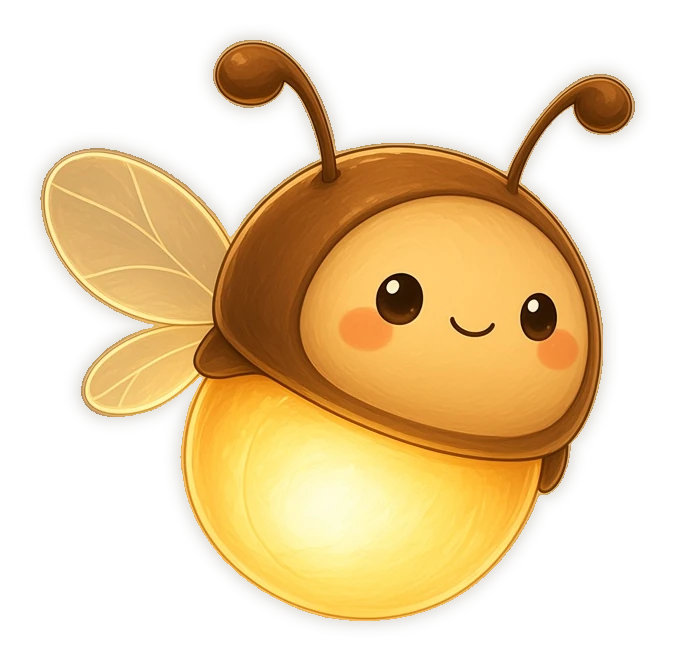
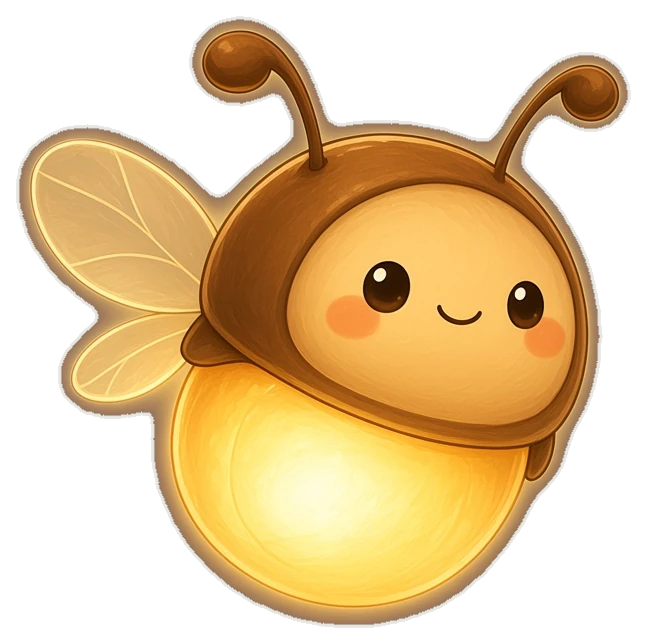
Recut Phase 1 art to remove white backgrounds
Redo every Phase 1 cutout from the raw generations with a border
flood-fill, an eroded alpha matte, and edge decontamination so
sprites and chase mid/ground/far layers no longer keep a white or
mauve studio backdrop.

diff --git a/public/assets/art/phase1/README.md b/public/assets/art/phase1/README.md
@@ -2,11 +2,11 @@
 
 Chase scene (Ruée des Citrouilles) and new gameplay sprites: baby capys, Lumi, bounce mushrooms, lantern checkpoints, a pumpkin herd, a temporary glide feather and pose, a pantry shelf and a floor hatch.
 
-Files are lossy WebP at quality 90, with alpha preserved on every transparent layer. The chase sky is opaque RGB; far, mid and ground are RGBA. Creatures face right where a side view applies.
+Cutouts were redone from the raw generations (border flood-fill, eroded alpha matte, defringe and edge decontamination) so sprites no longer keep a white or mauve studio backdrop. Files are lossy WebP at quality 90, with alpha preserved on every transparent layer. The chase sky is opaque RGB; far, mid and ground are RGBA. Creatures face right where a side view applies.
 
 Suggested heights are in world units (Capy's idle sprite is 1.68 tall; the gameplay hitbox is 1.0). "vs Capy" is suggested world height ÷ 1.68.
 
-These assets are not wired into the game yet.
+These assets are wired on the `cursor/phase1-levels` branch (draft PR #4). They are not merged or deployed.
 
 ## Chase scene (`scenes/chase/`)
 
@@ -15,9 +15,9 @@ Composite order: `sky`, then `far`, then `ground`, then `mid` shifted by `dy` (p
 | File | Size | Dimensions | Notes |
 | --- | ---: | --- | --- |
 | `sky.webp` | 122 KB | 1280×720 RGB | Warm sunset sky with planets. Graded slightly cooler than the raw paint; still a cozy peach sky, not a dark storm. |
-| `far.webp` | 77 KB | 1280×720 RGBA | Distant floating isles, waterfalls and clouds. |
-| `ground.webp` | 98 KB | 1280×720 RGBA | Three linked sloped grass islands, left high / right low. |
-| `mid.webp` | 175 KB | 1280×720 RGBA | Wind-blown trees and shrubs on the slope. Suggested mid dy: **-40**. |
+| `far.webp` | 46 KB | 1280×720 RGBA | Distant floating isles and waterfalls. Hard-edged studio clouds were removed; the sky plate already paints softer clouds. |
+| `ground.webp` | 79 KB | 1280×720 RGBA | Three linked sloped grass islands, left high / right low. |
+| `mid.webp` | 130 KB | 1280×720 RGBA | Wind-blown trees and shrubs on the slope. Suggested mid dy: **-40**. |
 
 ```
 const MID_DY = { chase: -40 };
@@ -27,27 +27,27 @@ const MID_DY = { chase: -40 };
 
 | File | State | Dimensions | Suggested height | vs Capy | Anchor |
 | --- | --- | ---: | ---: | ---: | --- |
-| `baby-capy-sleep.webp` | Hidden baby, curled asleep, facing right | 1006×540 | 0.50 (body length ~0.93 at this scale) | 0.30 | Bottom (lying on the ground) |
-| `baby-capy-happy.webp` | Hidden baby, sitting, arms raised | 779×919 | 0.85 | 0.51 | Bottom (sitting contact) |
-| `capy-glide.webp` | Temporary glide / leap pose, facing right, small feather ruff and feathered tail | 1039×814 | 1.68 (same bounding height as idle; the pose is longer, so the head is a little smaller than `capy-idle` if you use that) | 1.00 | Mid-body / belly (airborne, not the feet) |
-| `lumi-idle.webp` | Lumi the golden firefly, idle / watch | 675×661 | 0.42 | 0.25 | Center (flying) |
-| `lumi-sparkle.webp` | Lumi sparkle / “étincelle” frame | 768×770 | 0.42 for the body (the sprite is taller because of the sparks; don’t let the sparkles change her size) | 0.25 | Center (flying) |
+| `baby-capy-sleep.webp` | Hidden baby, curled asleep, facing right | 997×533 | 0.50 (body length ~0.93 at this scale) | 0.30 | Bottom (lying on the ground) |
+| `baby-capy-happy.webp` | Hidden baby, sitting, arms raised | 776×912 | 0.85 | 0.51 | Bottom (sitting contact) |
+| `capy-glide.webp` | Temporary glide / leap pose, facing right, small feather ruff and feathered tail | 1033×804 | 1.68 (same bounding height as idle; the pose is longer, so the head is a little smaller than `capy-idle` if you use that) | 1.00 | Mid-body / belly (airborne, not the feet) |
+| `lumi-idle.webp` | Lumi the golden firefly, idle / watch | 647×644 | 0.42 | 0.25 | Center (flying) |
+| `lumi-sparkle.webp` | Lumi sparkle / “étincelle” frame | 769×776 | 0.42 for the body (the sprite is taller because of the sparks; don’t let the sparkles change her size) | 0.25 | Center (flying) |
 
 ## Props (`props/`)
 
 | File | Replaces / use | State | Dimensions | Suggested height | vs Capy | Anchor |
 | --- | --- | --- | ---: | ---: | ---: | --- |
-| `mushroom-idle.webp` | Bounce mushroom, extended | Idle | 818×914 | 1.10 | 0.65 | Bottom of the stem |
-| `mushroom-squashed.webp` | Same mushroom when Capy lands on it | Squashed, wider cap, shorter stem | 891×671 | 0.80 (keep the same ground point and cap-center X as idle) | 0.48 | Bottom of the stem |
-| `lantern-unlit.webp` | Checkpoint lantern, cold | Unlit, empty glass | 205×881 | 2.00 (post foot to wooden cap) | 1.19 | Bottom of the post |
-| `lantern-lit.webp` | Same checkpoint, lit | Flame and a soft gold glow | 300×920 | Scale so the **wooden post** matches unlit at 2.00 (the glow adds padding) | 1.19 | Bottom of the post |
-| `pumpkin-herd-small.webp` | Chase herd, small | Worried face | 937×914 | 0.50 | 0.30 | Bottom (rolling) |
-| `pumpkin-herd-medium.webp` | Chase herd, medium | Angry face | 951×934 | 0.75 | 0.45 | Bottom (rolling) |
-| `pumpkin-herd-large.webp` | Chase herd, large | Furious, puffed cheeks | 972×930 | 1.05 | 0.63 | Bottom (rolling) |
-| `shelf-platform.webp` | Pantry shelf Capy can walk on | One pose, wall brackets | 1241×519 | Width **2.40**; visual height ~0.55 including brackets | width 1.43 | Walkable top surface; brackets hang below |
-| `hatch-closed.webp` | Pantry floor hatch, shut | Closed lid, 3/4 view | 951×653 | Frame width **1.60** | width 0.95 | Floor frame (share this with the open state) |
-| `hatch-open.webp` | Same hatch, opened by Lumi | Lid up, dark shaft, see-through gap under the lid | 977×927 | Same frame width 1.60 (the lid makes the sprite taller) | width 0.95 | Same floor frame as closed |
-| `glide-feather.webp` | Temporary glide pickup in the chase | One pose, pale gold feather | 641×1123 | 0.70 | 0.42 | Center (bobbing pickup) |
+| `mushroom-idle.webp` | Bounce mushroom, extended | Idle | 812×910 | 1.10 | 0.65 | Bottom of the stem |
+| `mushroom-squashed.webp` | Same mushroom when Capy lands on it | Squashed, wider cap, shorter stem | 887×667 | 0.80 (keep the same ground point and cap-center X as idle) | 0.48 | Bottom of the stem |
+| `lantern-unlit.webp` | Checkpoint lantern, cold | Unlit, empty glass | 201×877 | 2.00 (post foot to wooden cap) | 1.19 | Bottom of the post |
+| `lantern-lit.webp` | Same checkpoint, lit | Flame and a soft gold glow | 248×890 | Scale so the **wooden post** matches unlit at 2.00 (the glow adds padding) | 1.19 | Bottom of the post |
+| `pumpkin-herd-small.webp` | Chase herd, small | Worried face | 933×911 | 0.50 | 0.30 | Bottom (rolling) |
+| `pumpkin-herd-medium.webp` | Chase herd, medium | Angry face | 945×930 | 0.75 | 0.45 | Bottom (rolling) |
+| `pumpkin-herd-large.webp` | Chase herd, large | Furious, puffed cheeks | 967×925 | 1.05 | 0.63 | Bottom (rolling) |
+| `shelf-platform.webp` | Pantry shelf Capy can walk on | One pose, wall brackets | 1233×513 | Width **2.40**; visual height ~0.55 including brackets | width 1.43 | Walkable top surface; brackets hang below |
+| `hatch-closed.webp` | Pantry floor hatch, shut | Closed lid, 3/4 view | 967×660 | Frame width **1.60** | width 0.95 | Floor frame (share this with the open state) |
+| `hatch-open.webp` | Same hatch, opened by Lumi | Lid up, dark shaft, see-through gap under the lid | 979×928 | Same frame width 1.60 (the lid makes the sprite taller) | width 0.95 | Same floor frame as closed |
+| `glide-feather.webp` | Temporary glide pickup in the chase | One pose, pale gold feather | 614×1098 | 0.70 | 0.42 | Center (bobbing pickup) |
 
 ## Notes
 
@@ -60,4 +60,4 @@ const MID_DY = { chase: -40 };
 ## Totals
 
 - 20 WebP files
-- 1.54 MiB
+- 1.38 MiB
